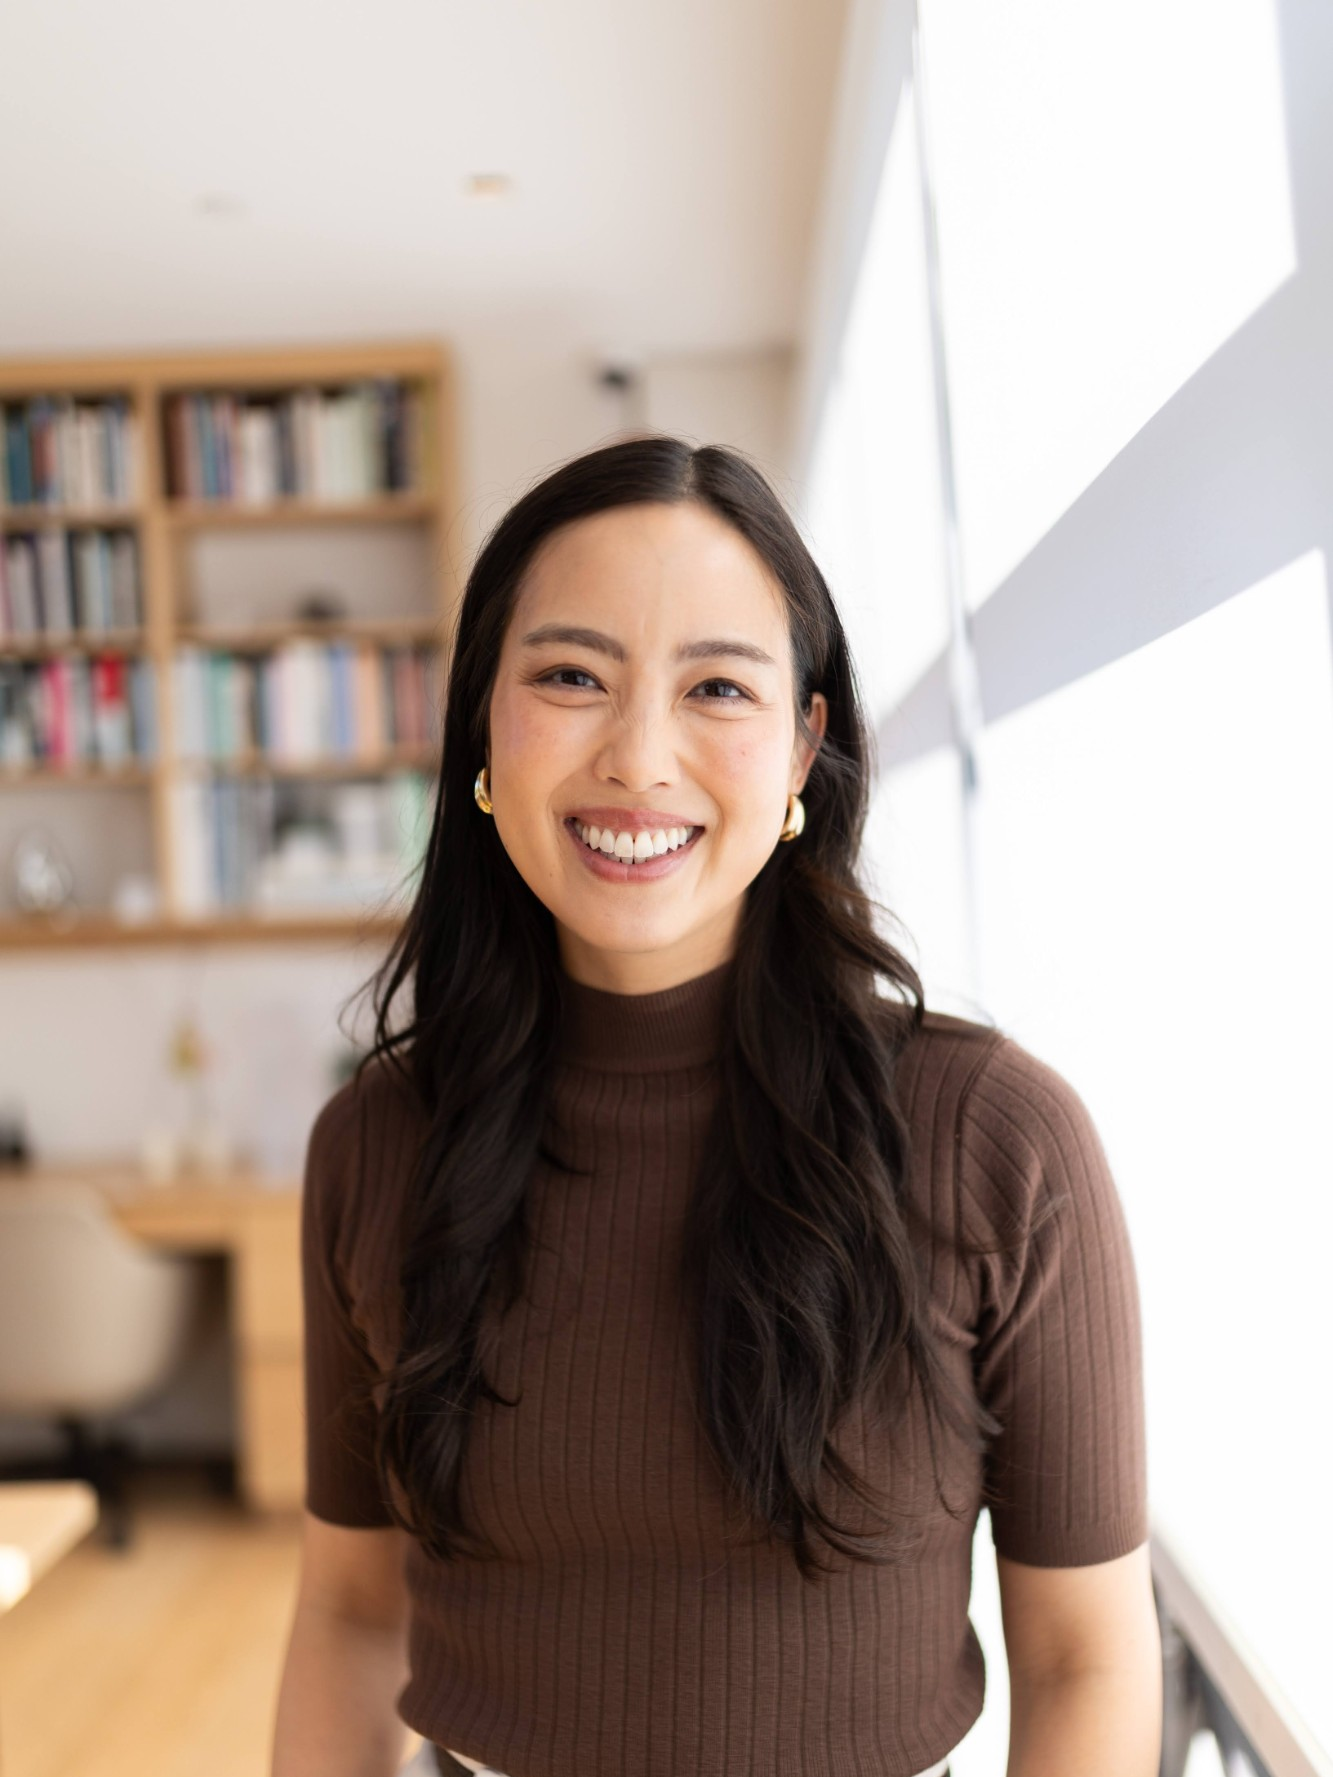
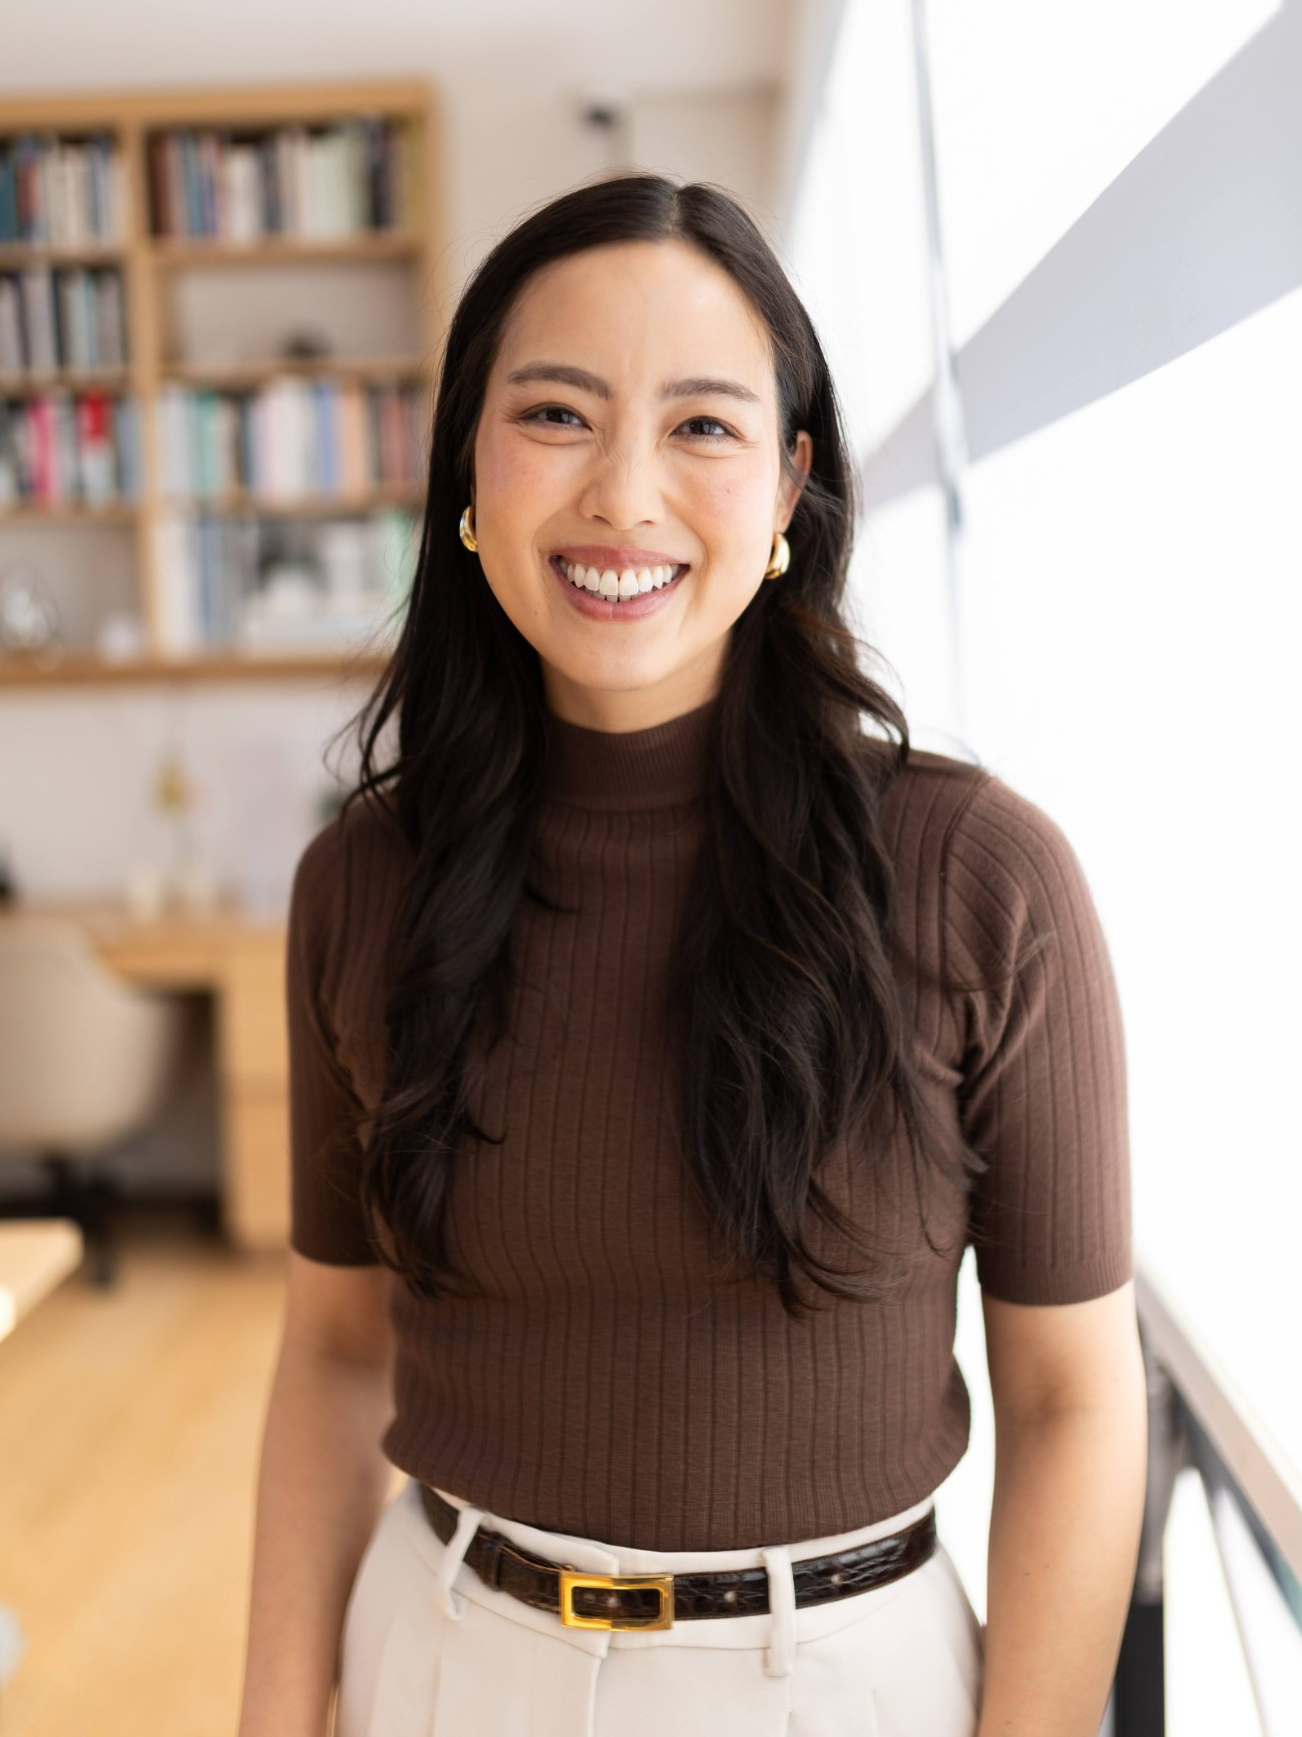
Tighten the hero crops and link the testimonials stat
The homepage photo carried empty ceiling above Lorraine's head, so her
head began 228px below the headline. Re-cropped from the original with
7% headroom instead of 22%, and the 90px offset that positioned the old
photo comes down to 8px, which brings her head within 12px of the
headline's top line. Still 1302x1737, so it stays sharp on a retina
screen.

The speaking page hero stood 786px tall against a 589px copy column,
leaving 166px of empty hero below the stats. The photo is now capped at
620px rather than floored there, which halves the gap. The image is
object-fit: cover, so it crops rather than squashes.

250+ glowing testimonials now links to Lorraine's LinkedIn
recommendations. Hero stats take an optional URL, so any stat can become
a link from Keystatic without a developer.

Also drops two keynote notes: the audiences line on Build Influence and
the workbook add-on on LinkedIn Presence.

diff --git a/src/styles/editorial/base.css b/src/styles/editorial/base.css
@@ -384,8 +384,33 @@ body {
   justify-content: center;
   margin: 0 -8% 0 0;
   width: 130%;
-  min-height: 620px;
+  /* Cap the height rather than setting a floor. At 3/4 the photo stood 786px
+     against a 589px copy column, which left 166px of empty hero below the
+     stats. The image is object-fit: cover, so capping crops it rather than
+     squashing it, and the copy now sets the height of the row. */
+  max-height: 620px;
 }
+/* A hero stat that links out. Keeps the stat's own type and spacing; the
+   underline appears on hover so the row still reads as stats, not navigation. */
+.hero-meta-link {
+  text-decoration: none;
+  color: inherit;
+  display: block;
+  border-radius: 8px;
+}
+.hero-meta-link:hover .num,
+.hero-meta-link:focus-visible .num {
+  color: var(--accent);
+}
+.hero-meta-link:hover .lbl {
+  text-decoration: underline;
+  text-underline-offset: 3px;
+}
+.hero-meta-link:focus-visible {
+  outline: 2px solid var(--accent);
+  outline-offset: 4px;
+}
+
 .photo-card img {
   width: 100%;
   height: 100%;

diff --git a/src/styles/v1/home.css b/src/styles/v1/home.css
@@ -469,10 +469,12 @@ body {
   margin: 0 -8% 0 0;
   width: 130%;
   min-height: 620px;
-  /* CLI-104 polish: align photo top with the hero H1's top line. Using a
-     transform instead of margin so the grid track height stays put and the
-     hero copy doesn't drift downward. */
-  transform: translateY(90px);
+  /* Align the top of Lorraine's head with the hero H1's top line. The 90px
+     here was tuned for an older photo that carried a lot of empty ceiling
+     above her; the current crop leaves only 7%, so the offset comes off.
+     Still a transform rather than a margin, so the grid track height stays
+     put and the hero copy doesn't drift down. */
+  transform: translateY(8px);
 }
 .photo-card img {
   width: 100%;

diff --git a/keystatic.config.ts b/keystatic.config.ts
@@ -773,6 +773,10 @@ export default config({
               fields.object({
                 value: fields.text({ label: 'Value' }),
                 label: fields.text({ label: 'Label', multiline: true }),
+                url: fields.text({
+                  label: 'Link (optional)',
+                  description: 'If set, the stat becomes a link.',
+                }),
               }),
               {
                 label: 'Hero meta stats',
